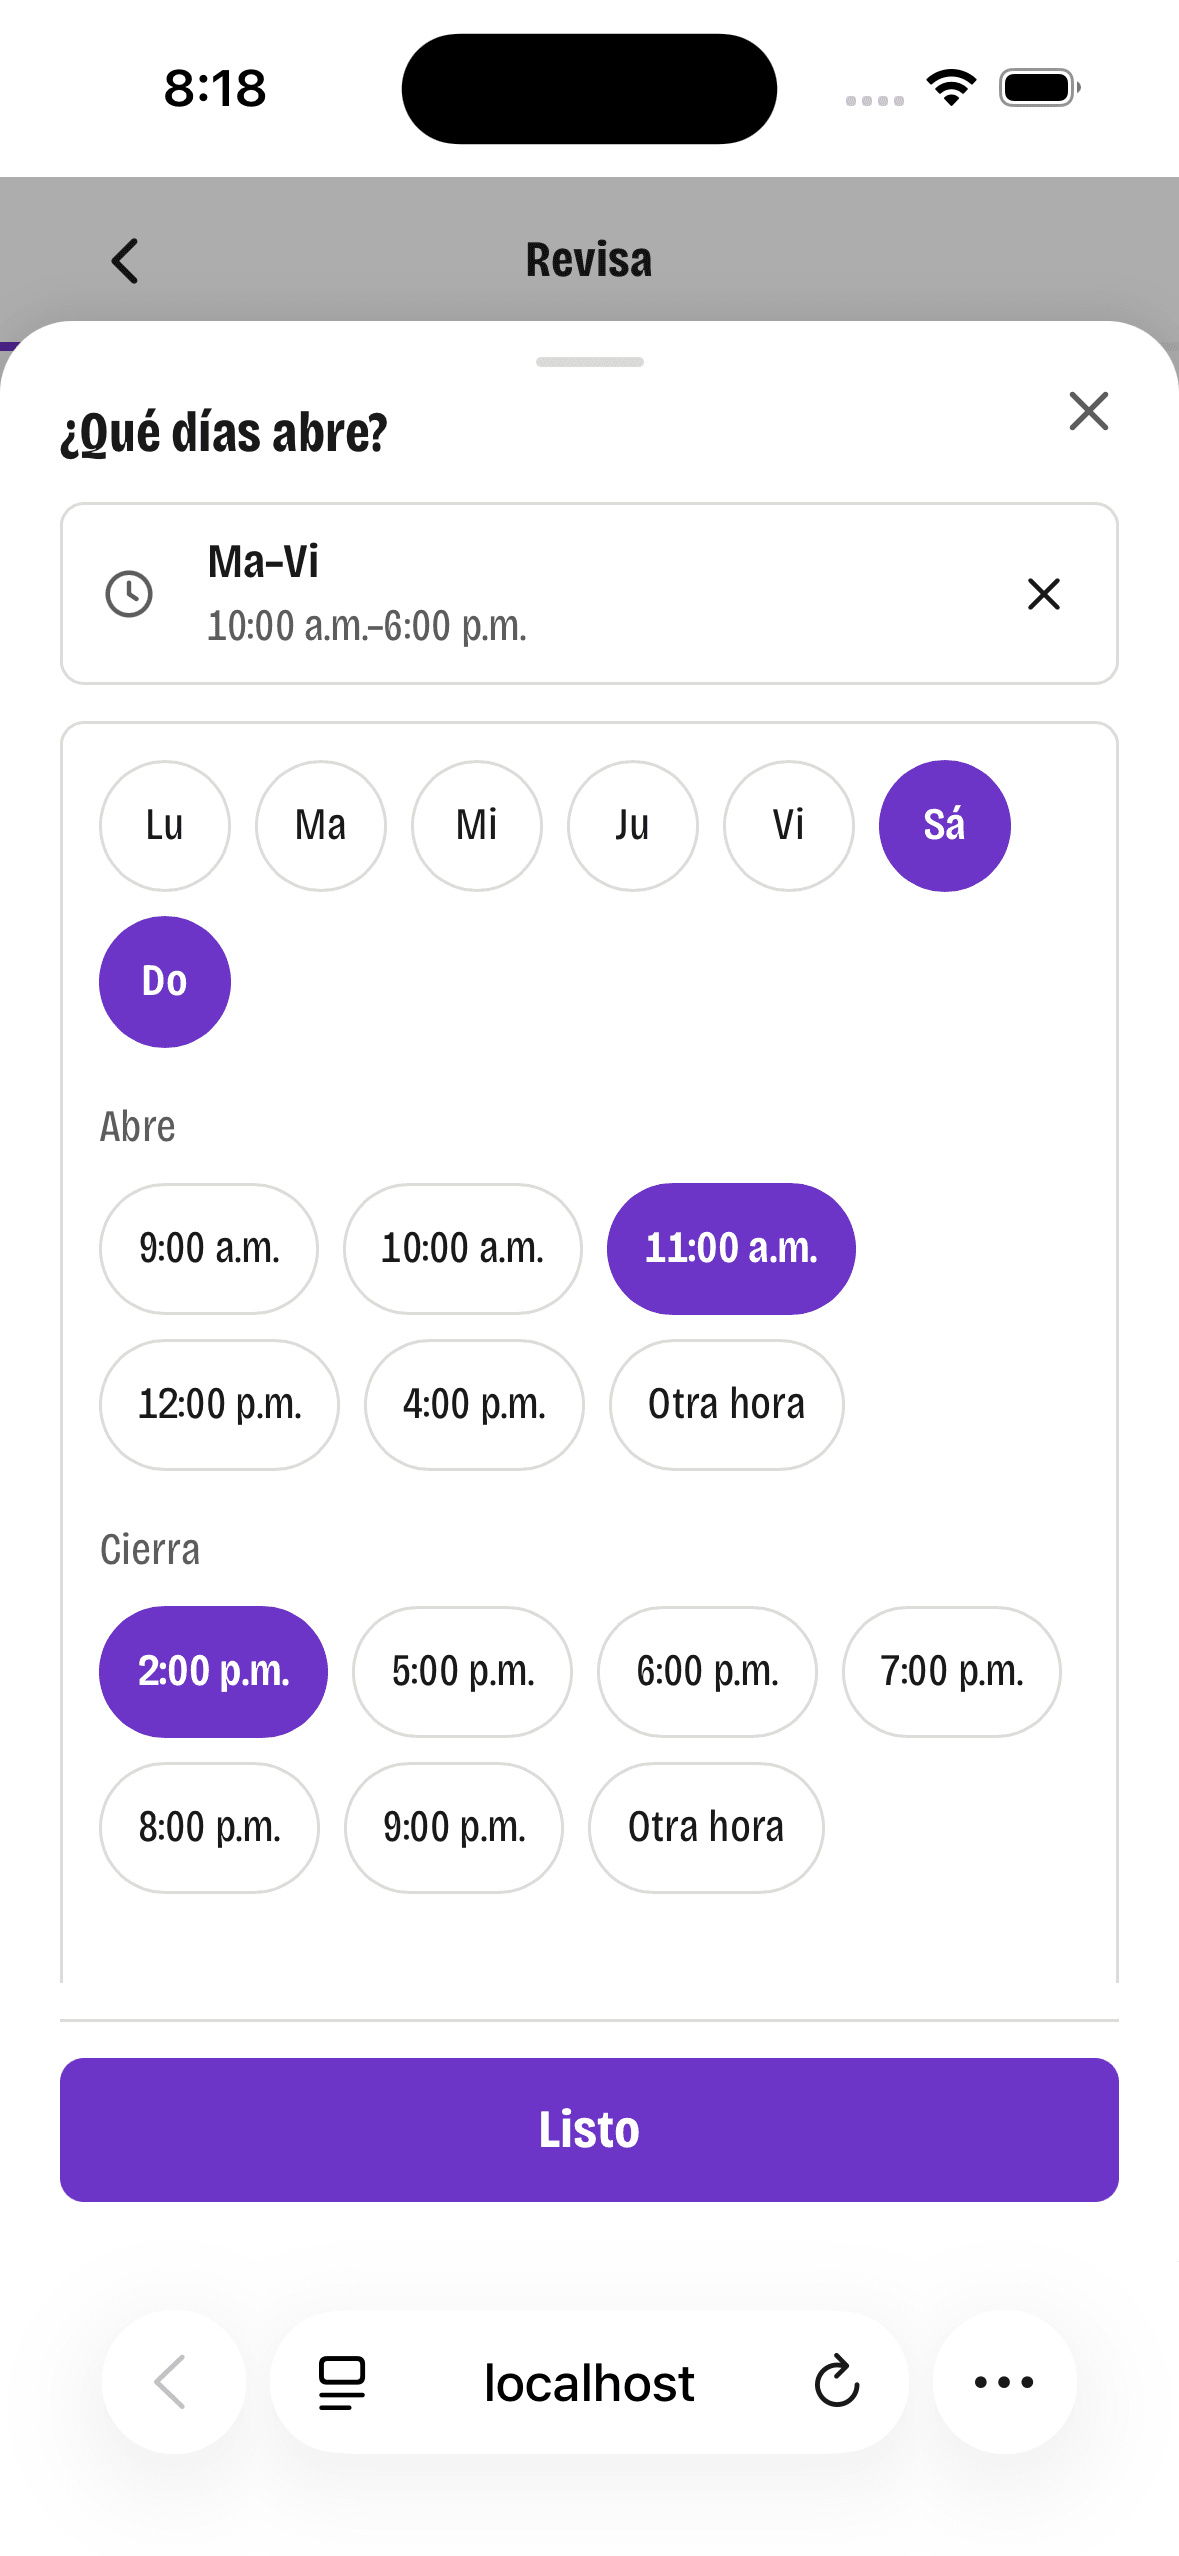
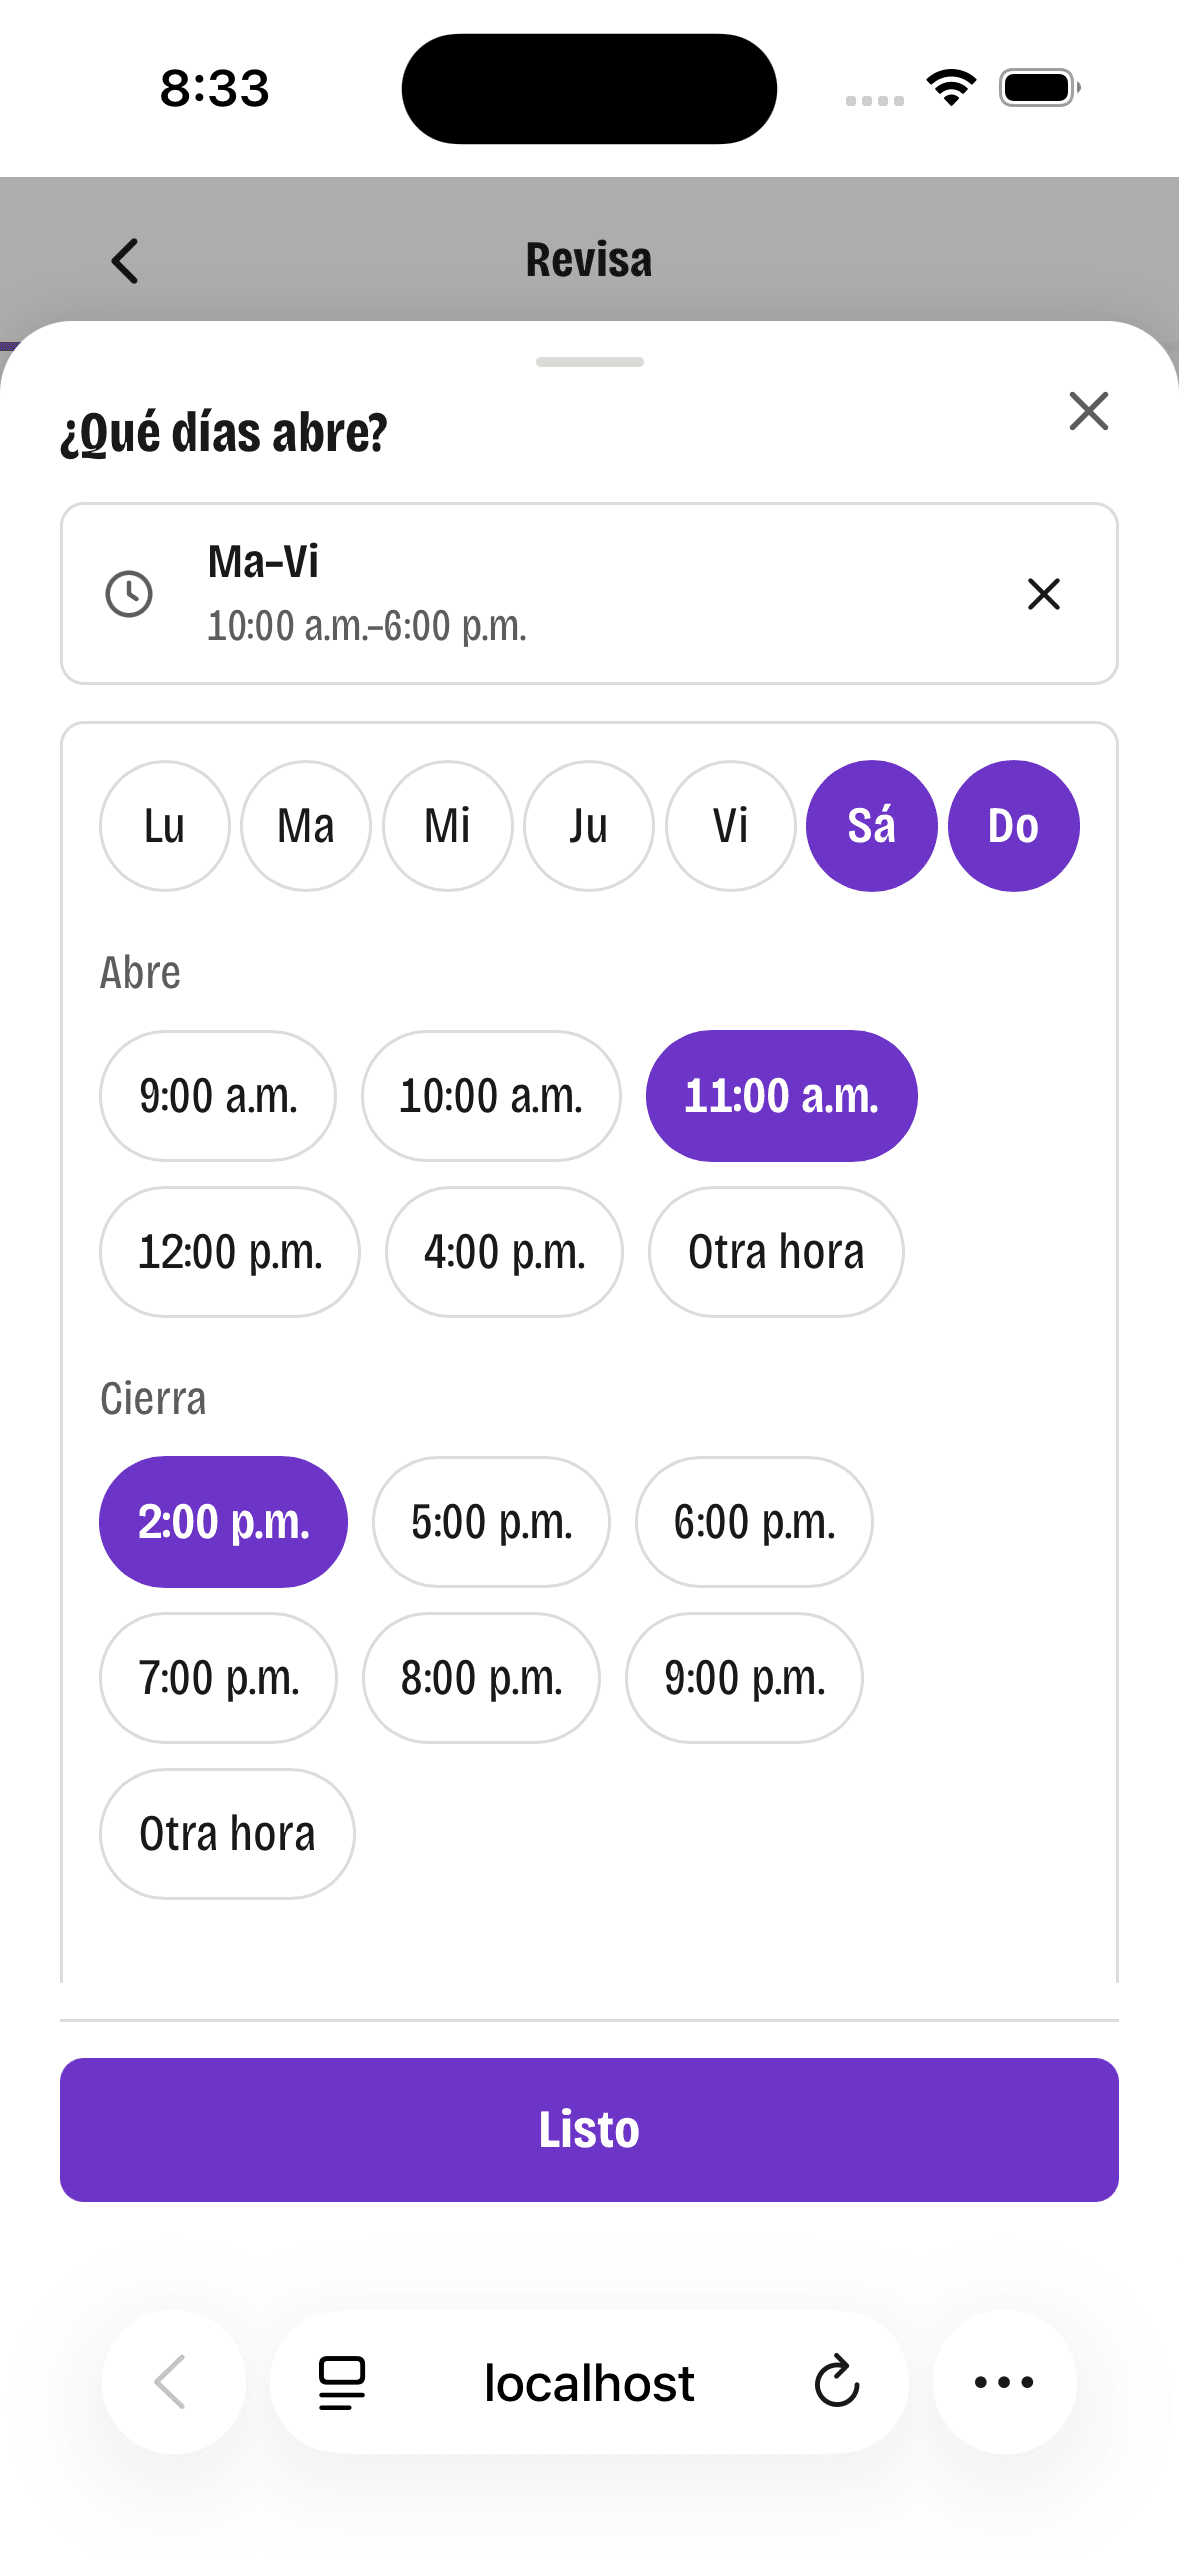
OL-315: los siete días del horario en una fila a 390 (toques redondos de 44 × 44); capturas 08 y 09 repuestas

diff --git a/src/app/lugares/Horario.module.css b/src/app/lugares/Horario.module.css
@@ -45,11 +45,23 @@
   border: 1px solid var(--borde);
   border-radius: var(--radio);
 }
-/* Los grupos de chips son los del alta de evento (`grupo` de `AltaEvento.module.css`: la respuesta, de un toque a la vista). Los días miden al
-   menos un toque de ancho, así «Lu» se toca igual que «10:00 a.m.». */
+/* «Abre» y «Cierra» son los grupos de chips del alta de evento (`grupo` de `AltaEvento.module.css`: la respuesta, de un toque a la vista). Los
+   días son siete toques redondos de 44 × 44 (sin relleno a los lados, el texto al centro) en una rejilla de columnas de un toque que se reparten
+   el ancho: caben los siete en una fila a 390 y, donde no caben (320), pasan al renglón de abajo, sin medidas por pantalla. Entre renglones, el
+   aire de siempre. */
+.dias {
+  --alto-chip: var(--toque-min);
+  display: grid;
+  grid-template-columns: repeat(auto-fill, var(--toque-min));
+  justify-content: space-between;
+  row-gap: var(--espacio-2);
+  width: 100%;
+}
 .dias > button {
   justify-content: center;
-  min-width: var(--toque-min);
+  width: var(--toque-min);
+  padding-inline: 0;
+  font-size: var(--letra-md);
 }
 
 /* 4. La franja puesta: un renglón que se toca entero para volver a abrirla (icono | días / horas) y su ✕ a la derecha. */

diff --git a/src/app/lugares/Horario.tsx b/src/app/lugares/Horario.tsx
@@ -129,7 +129,7 @@ function FranjaAbierta({ franja, quitable, onCambio, onOtra, onQuitar }: { franj
   const cierrePropio = !cierres.includes(franja.cierra);
   return (
     <div className={styles.franja}>
-      <div className={`${pasos.grupo} ${styles.dias}`} role="group" aria-label="Días">
+      <div className={styles.dias} role="group" aria-label="Días">
         {DIAS.map(({ dia, corto, nombre }) => (
           <Chip key={dia} activo={dias.includes(dia)} onClick={() => onCambio({ ...franja, dias: dias.includes(dia) ? dias.filter((d) => d !== dia) : [...dias, dia] })}>
             <span aria-hidden="true">{corto}</span>

diff --git a/docs/bitacora/2026/10/343-lugar-por-pasos.md b/docs/bitacora/2026/10/343-lugar-por-pasos.md
@@ -59,7 +59,7 @@ Construir el alta de lugar del prototipo firmado `docs/rediseno/prototipos/lugar
 10. **Alta atómica con horario:** con franjas, `crear_lugar_con_horario` (lugar y horario en una transacción); sin franjas, el insert de siempre, para que el camino del alta de evento (`crearLugarDesdeEvento`) no cambie. Editar: guarda el lugar y luego reemplaza el horario; si eso falla, lo dice en su renglón y volver a guardar lo repite.
 11. **El horario no viaja al editar si no se tocó:** guardar la descripción no reescribe el horario (ni depende de la migración).
 12. **Editar:** el nombre lleva un lápiz en vez de la lupa (ya no busca), y lo exclusivo del alta salió del formulario.
-13. **Chips del horario de un toque a la vista** (la clase `grupo` del alta de evento, reutilizada) y los días de al menos 44 de ancho: con los de 36 del prototipo `npm run medir` marcaba toques de 40×36.
+13. **Chips del horario de un toque a la vista.** «Abre» y «Cierra» usan la clase `grupo` del alta de evento (con los de 36 del prototipo `npm run medir` marcaba toques de 40×36). Los días, tras la revisión del gestor, son toques redondos de 44 × 44 sin relleno a los lados, en una rejilla de columnas de un toque que se reparten el ancho: los siete caben en una fila a 390 (como en el prototipo) y a 320 pasan cinco y dos, sin medidas por pantalla.
 14. **«¿Es este?» del mapa usa la tarjeta de confirmación del evento con su palomita**, como el prototipo (`ic('ok')`).
 15. **`ui/Opcion` gana `compacta`** (una línea, del alto de un toque) para los diez tipos; `ui/useAlto` sale de `HojaDonde` para que el pie del primer paso reserve su alto a la lista flotante; `SelectorEnlaces` gana `onCambio` (opcional) para llevar las redes de un paso a otro. Ninguno cambia lo que ya existía.
 16. **El simulador de `visualViewport` de `npm run medir`** lee su alto al pedirlo: fijado al instalarse, `ui/Hoja` se colocaba fuera de la vista en el modo «area» (pantalla s19).
@@ -86,12 +86,12 @@ Del simulador iPhone 15 Pro (iOS 26.3, Safari, 393×852 a 3×, teclado en pantal
 - `05-mapa-estoy-aqui.png`: tras «Estoy aquí» (ubicación simulada): «Estoy aquí» se fue, la tarjeta con la palomita dice «Casa · Pin en el mapa» (sin Mapbox no hay dirección), «Si el pin no está en su sitio, arrástralo.» y «Listo» encendido.
 - `06-tipo.png`: «¿Qué tipo de lugar es?» con los diez tipos con el icono de etiqueta y su chevron, entre ellos «Café, bar o restaurante» antes de «Plaza, jardín o parque»; el texto centrado con el icono.
 - `07-revisa-horario-dos-franjas.png`: «Revisa» con «Casa» de título; «Pin en el mapa · Cambiar», «Galería · Cambiar», el horario «Ma–Vi / 10:00 a.m.–6:00 p.m.», «Sá, Do / 11:00 a.m.–2:00 p.m.», «Cierra Lu» con «Cambiar», y «Foto, descripción o redes · Agregar» punteado; «Publicar lugar».
-- `08-hoja-horario-dos-franjas-390.png`: la hoja «¿Qué días abre?» con la franja Ma–Vi encogida (reloj, días, horas y ✕) y la nueva abierta con Sá y Do marcados, 11:00 a.m. y 2:00 p.m.; «Listo» en el pie de la hoja, a la vista.
+- `08-hoja-horario-dos-franjas-390.png`: la hoja «¿Qué días abre?» con la franja Ma–Vi encogida (reloj, días, horas y ✕) y la nueva abierta: los siete días en una sola fila, redondos de 44 × 44, con Sá y Do marcados; 11:00 a.m. y 2:00 p.m.; «Listo» en el pie de la hoja, a la vista.
 - `11-publicado.png`: el sello verde, «Lugar publicado», «Ya está en el directorio. Así lo ve la gente:», el renglón de «Casa · Galería · Sin dirección» con el símbolo SN, la sugerencia punteada «¿Hay algo próximo en Casa? · Publicar un evento aquí», «Compartir» y «Publicar otro».
 
 Del Chrome de la Mac (headless, 2×, con la letra de la app), con la misma app compilada:
 
-- `09-hoja-horario-dos-franjas-320-chrome.png` y `-390-chrome.png`: la misma hoja a 320 y 390; a 320 los días van en dos renglones, los chips miden un toque, «Agregar otro horario» asoma y «Listo» queda abajo, a la vista; sin desplazamiento a lo ancho.
+- `09-hoja-horario-dos-franjas-320-chrome.png` y `-390-chrome.png`: la misma hoja a 320 y 390. A 390 los siete días en una fila; a 320 cinco y dos (Sá y Do debajo de Lu y Ma). Los chips de hora miden un toque; «Listo» queda abajo, a la vista; sin desplazamiento a lo ancho.
 - `10-revisa-horario-320-chrome.png` y `-390-chrome.png`: «Revisa» con el horario de dos grupos y «Cierra Lu»; a 320 «Foto, descripción o redes» va en dos renglones sin empujar «Agregar».
 
 ## Qué probar en el iPhone
